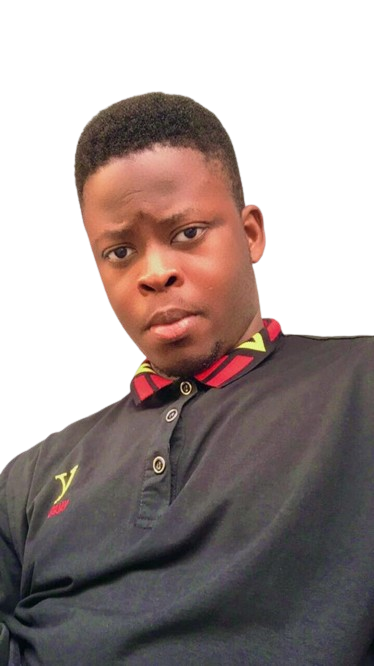
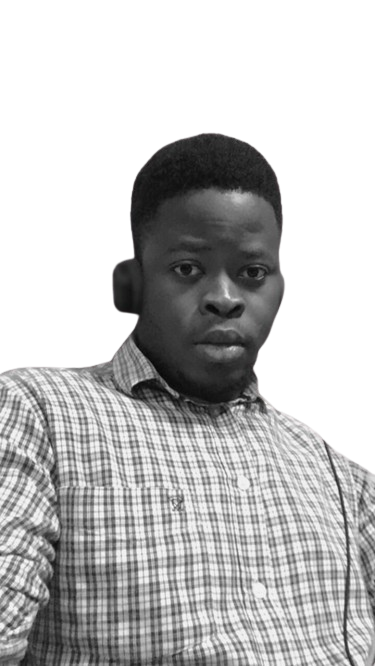
c

diff --git a/app/page.jsx b/app/page.jsx
@@ -1,3 +1,4 @@
+/* eslint-disable react/no-unescaped-entities */
 import { Button } from "@/components/ui/button";
 import { FiDownload } from "react-icons/fi";
 import Link from "next/link";
@@ -5,17 +6,18 @@ import Link from "next/link";
 // components
 import Social from "@/components/Socials";
 import Photo from "@/components/Photo";
+import Stats from "@/components/Stats";
 
 const Home = () => {
   return (
-    <section className="h-full ">
+    <section className="h-full">
       <div className="container mx-auto h-full">
         <div className="flex flex-col xl:flex-row items-center justify-between xl:pt-8 xl:pb-24">
           {/* text */}
           <div className="text-center xl:text-left order-2 xl:order-none">
             <span className="text-xl">Website Developer</span>
             <h1 className="text-[48px] xl:text-[70px] leading-[1.1] font-semibold mb-6">
-              Hello I`m <br />
+              Hello I'm <br />
               <span className="text-accent">Olabode Showole</span>
             </h1>
             <p className="max-w-[500px] mb-9 text-white/80">
@@ -24,7 +26,7 @@ const Home = () => {
             </p>
             {/* btn and socails */}
             <div className="flex flex-col xl:flex-row items-center gap-8">
-              <Link href="/Cv.pdf" download>
+              <Link href="/Cv.pdf" target="_blank" download>
                 <Button
                   variant="outline"
                   size="lg"
@@ -45,6 +47,9 @@ const Home = () => {
           </div>
         </div>
       </div>
+
+<Stats />
+
     </section>
   );
 };

diff --git a/components/Stats.jsx b/components/Stats.jsx
@@ -1,0 +1,54 @@
+"use client";
+
+import CountUp from "react-countup";
+
+const stats = [
+  {
+    num: 3,
+    text: "Years of experience",
+  },
+  {
+    num: 10,
+    text: "Projects completed",
+  },
+  {
+    num: 8,
+    text: "Technologies mastered",
+  },
+  {
+    num: 100,
+    text: "Codes commits",
+  },
+];
+
+const Stats = () => {
+  return (
+    <section>
+      <div className="container mx-auto">
+        <div className="flex flex-wrap gap-6">
+          {stats.map((item, index) => {
+            return (
+              <div
+                className="flex flex-1 gap-4 items-center justify-center xl:justify-start"
+                key={index}
+              >
+                {" "}
+                <CountUp
+                  end={item.num}
+                  duration={5}
+                  delay={2}
+                  className="text-4xl xl:text-6xl font-extrabold"
+                />
+                <p className={`${
+                  item.text.length < 15 ? "max-w-[100px]" : "max-w-[150px]"
+                } leading-snug text-white/80`}>{item.text}</p>
+              </div>
+            );
+          })}
+        </div>
+      </div>
+    </section>
+  );
+};
+
+export default Stats;

diff --git a/components/Photo.jsx b/components/Photo.jsx
@@ -53,7 +53,7 @@ const Photo = () => {
           className="absolute inset-0 flex items-center justify-center"
         >
           <img
-            src="/assets/new.png"
+            src="/assets/Toas.png"
             alt="Profile"
             className="object-cover rounded-full w-[150px] h-[150px] sm:w-[200px] sm:h-[200px] md:w-[250px] md:h-[250px] lg:w-[300px] lg:h-[300px] xl:w-[350px] xl:h-[350px]"
             

diff --git a/components/Socials.jsx b/components/Socials.jsx
@@ -2,7 +2,7 @@ import Link from "next/link";
 import { FaGithub, FaLinkedin, FaTwitter } from "react-icons/fa";
 
 const socials = [
-  { icon: <FaGithub />, path: "/" },
+  { icon: <FaGithub />, path: "https://github.com/David-Toas" },
   { icon: <FaLinkedin />, path: "https://www.linkedin.com/in/showole-olabode" },
   { icon: <FaTwitter />, path: "https://x.com/Toasking06" },
 ];

diff --git a/components/Header.jsx b/components/Header.jsx
@@ -9,7 +9,7 @@ import MobileNav from "./MobileNav";
 
 const Header = () => {
   return (
-    <header className="py-8 xl:py-12 text-white">
+    <header className="py-8 xl:py-12 text-white font-primary">
       <div className="container mx-auto flex justify-between items-center">
         {/* logo */}
         <Link href="/">
